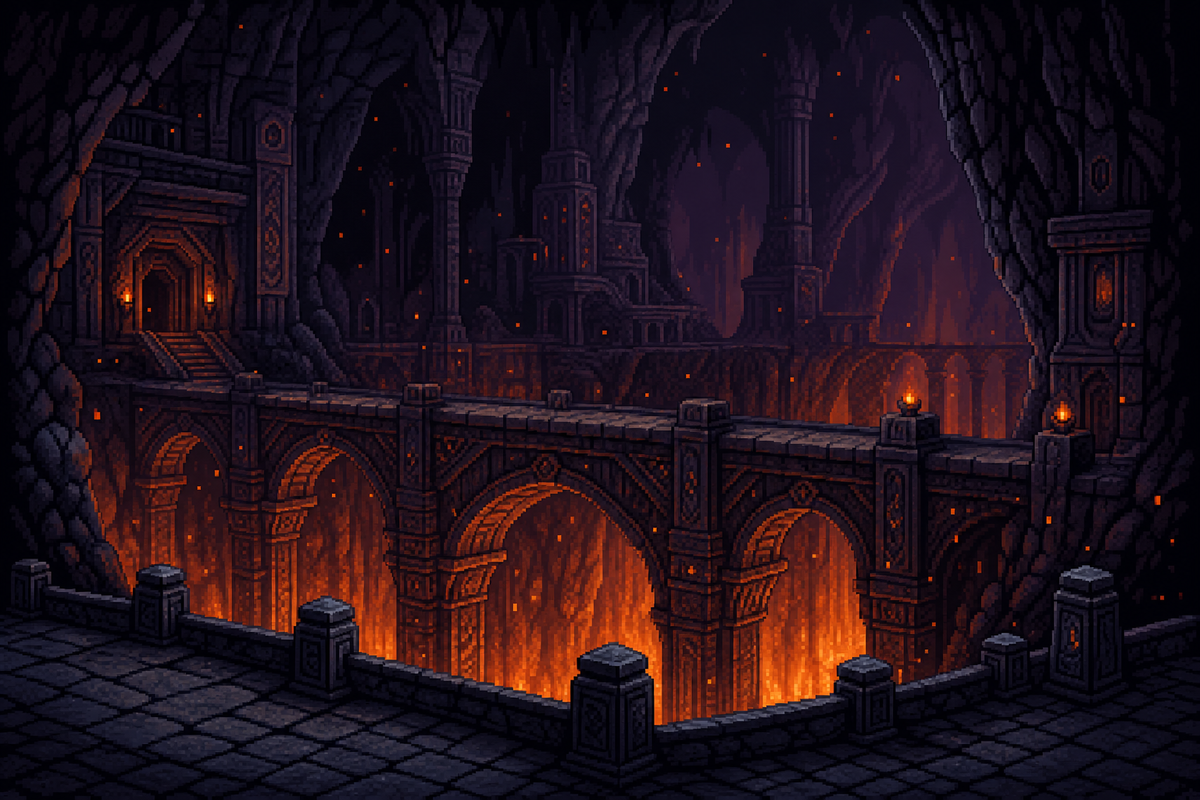
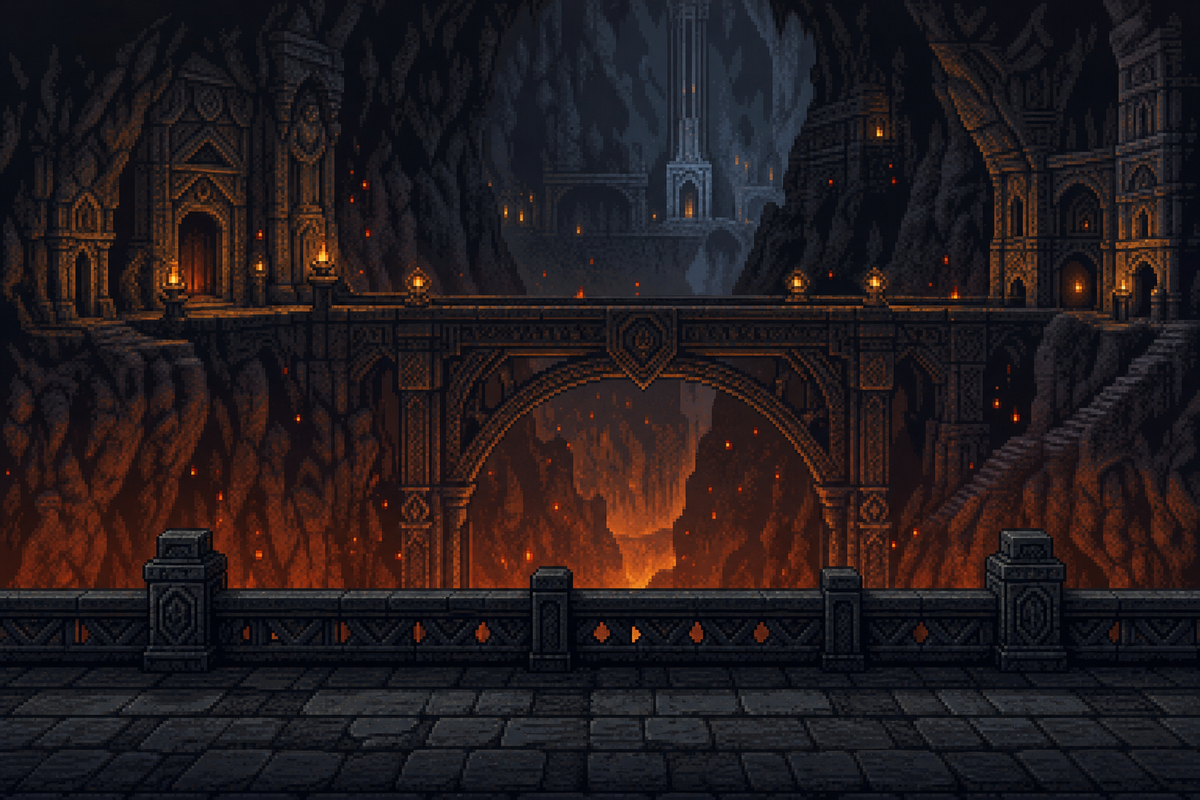
Add fellowship SVG asset wrappers and refresh pixel-art sprites
Replace generated placeholders with updated scene art and a nine-character
party strip on a transparent background. Web loads SVG wrappers that
reference the PNG rasters; Android continues to use drawable PNGs.

diff --git a/lib/clock-faces/fellowship.ts b/lib/clock-faces/fellowship.ts
@@ -1,12 +1,12 @@
 /** Journey backgrounds — one scene per hour, looping in order. */
 export const FELLOWSHIP_BACKGROUNDS = [
-  { id: "shire", label: "The Shire", file: "shire.png" },
-  { id: "bree", label: "Bree", file: "bree.png" },
-  { id: "rivendell", label: "Rivendell", file: "rivendell.png" },
-  { id: "moria", label: "Moria", file: "moria.png" },
-  { id: "anduin", label: "Anduin", file: "anduin.png" },
-  { id: "lothlorien", label: "Lothlórien", file: "lothlorien.png" },
-  { id: "mordor", label: "Mordor", file: "mordor.png" },
+  { id: "shire", label: "The Shire", file: "shire.svg" },
+  { id: "bree", label: "Bree", file: "bree.svg" },
+  { id: "rivendell", label: "Rivendell", file: "rivendell.svg" },
+  { id: "moria", label: "Moria", file: "moria.svg" },
+  { id: "anduin", label: "Anduin", file: "anduin.svg" },
+  { id: "lothlorien", label: "Lothlórien", file: "lothlorien.svg" },
+  { id: "mordor", label: "Mordor", file: "mordor.svg" },
 ] as const;
 
 export const FELLOWSHIP_ASSET_BASE = "/clock-faces/fellowship";
@@ -16,7 +16,7 @@ export function fellowshipBackgroundPath(file: string): string {
 }
 
 export function fellowshipPartyPath(): string {
-  return `${FELLOWSHIP_ASSET_BASE}/fellowship.png`;
+  return `${FELLOWSHIP_ASSET_BASE}/fellowship.svg`;
 }
 
 /** Which background index to show for the current clock hour (0–23). */

diff --git a/public/clock-faces/fellowship/README.md b/public/clock-faces/fellowship/README.md
@@ -6,19 +6,21 @@ Pixel-art backgrounds and party sprite for the Fellowship clock face. The scene 
 
 | File | Scene (hour slot) |
 |------|-------------------|
-| `backgrounds/shire.png` | 12am, 7am, 2pm, 9pm… |
-| `backgrounds/bree.png` | Bree / Prancing Pony |
-| `backgrounds/rivendell.png` | Rivendell |
-| `backgrounds/moria.png` | Mines of Moria |
-| `backgrounds/anduin.png` | Anduin / river journey |
-| `backgrounds/lothlorien.png` | Lothlórien |
-| `backgrounds/mordor.png` | Mordor |
+| `backgrounds/shire.svg` + `.png` | 12am, 7am, 2pm, 9pm… |
+| `backgrounds/bree.svg` + `.png` | Bree / Prancing Pony |
+| `backgrounds/rivendell.svg` + `.png` | Rivendell |
+| `backgrounds/moria.svg` + `.png` | Mines of Moria |
+| `backgrounds/anduin.svg` + `.png` | Anduin / river journey |
+| `backgrounds/lothlorien.svg` + `.png` | Lothlórien |
+| `backgrounds/mordor.svg` + `.png` | Mordor |
 
-`fellowship.png` — horizontal party sprite strip (transparent or white background).
+`fellowship.svg` + `fellowship.png` — horizontal party sprite strip.
+
+Web loads the `.svg` wrappers (which reference the `.png` raster). Android uses the PNG drawables in `android/app/src/main/res/drawable-nodpi/`.
 
 ## Canvas size
 
-- **Backgrounds:** 1200×800 (3:2, @2x). Ground/path should sit near the bottom ~15% for character placement.
-- **Fellowship:** wide strip (~1200×320); characters aligned to the bottom edge.
+- **Backgrounds:** 1200×800 (3:2). Ground/path near the bottom ~15%.
+- **Fellowship:** ~1200×360 wide strip; characters on the bottom edge.
 
-Android copies live in `android/app/src/main/res/drawable-nodpi/fellowship_bg_*.png` and `fellowship_party.png`.
+To replace art, overwrite both the `.png` and matching `.svg` pair (or update the SVG if you have true vector exports).
